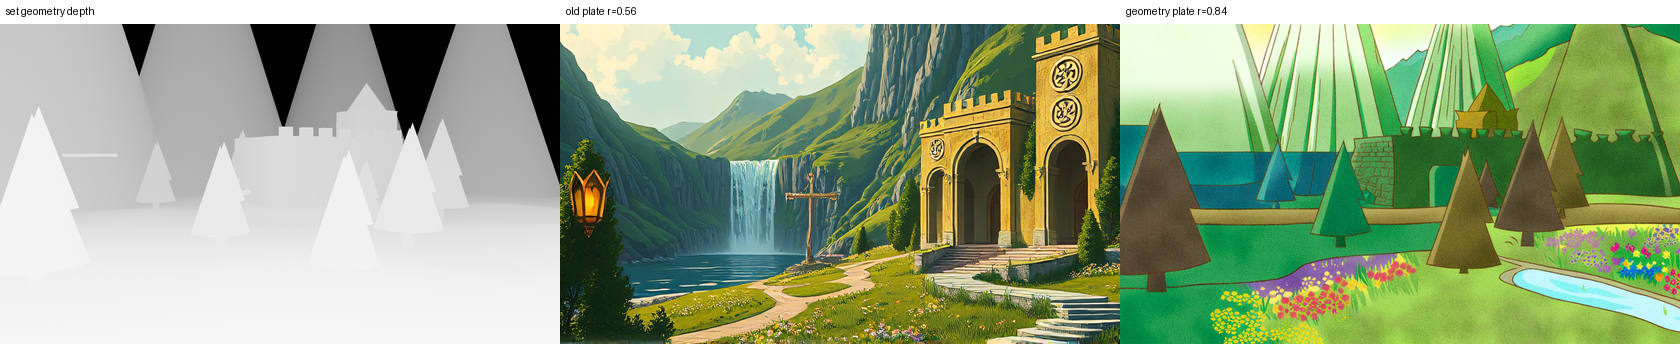
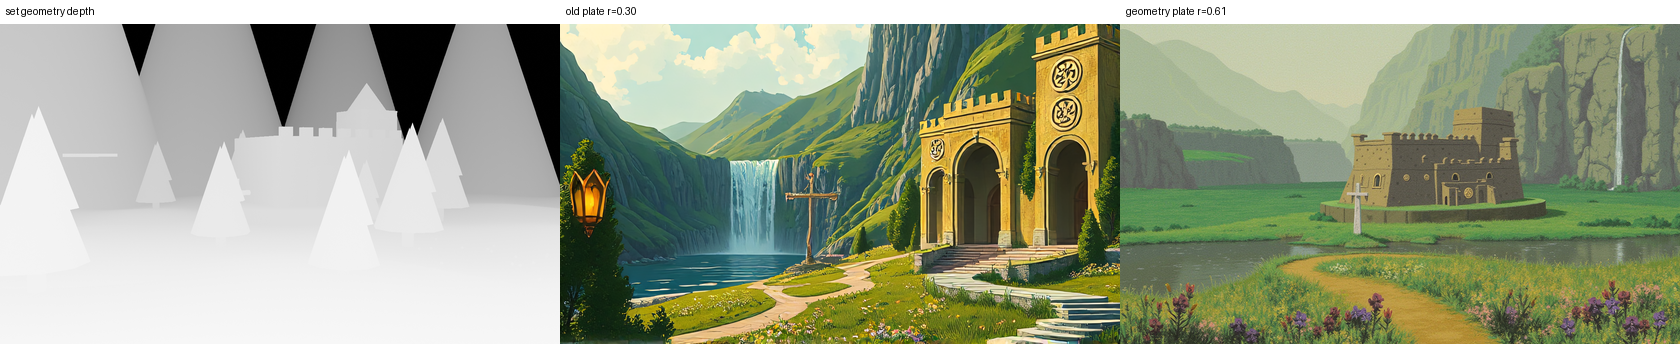
media export 20261005-1638

diff --git a/IMPROVE_STATUS.md b/IMPROVE_STATUS.md
@@ -1,15 +1,15 @@
 # Improvement status
 
-Updated 2026-10-05 16:27. Cycle 392.
+Updated 2026-10-05 16:37. Cycle 393.
 
 ## GPU duty cycle (last 24 h, 1-min samples)
 
-- card working (>=20%) **0%** of the last 24 h (10 busy minutes; 1414 minutes unsampled, counted idle); mean utilisation of sampled minutes 39%
+- card working (>=20%) **1%** of the last 24 h (15 busy minutes; 1404 minutes unsampled, counted idle); mean utilisation of sampled minutes 40%
 
 ## Adopted (what the masters are rendered with)
 
 - walk: RW_STRIDE=0.6, RW_DROP=0.062, RW_ARM_OUT=10 (defaults v1)
-- scene: SET_RELIEF_GAIN=0.8 (plate v3)
+- scene: SET_PLATE=/workspace/text-to-video/series/tir-na-nog-legend/sets/tir_na_nog/master_geo.png, SET_RELIEF_NPY=/workspace/loopwork/improve/plate_geo_depth.npy, SET_RELIEF_GAIN=0.8 (plate v4)
 - cast oisin: st_chibi3_oisin_m23845 (hand compactness 0.31, lower is better)
 - cast niamh: st_chibi3_niamh_m20705_tex (hand compactness 0.20, lower is better)
 - masters: nine_waterfalls_rigify_cast4d_web.mp4, nine_waterfalls_rigify_cast4_web.mp4, nine_waterfalls_loop_97c79e_web.mp4
@@ -46,7 +46,6 @@ Updated 2026-10-05 16:27. Cycle 392.
 
 ## Last 12 experiments
 
-- 2026-10-03 07:02 cast: oisin best new candidate st_chibi3_oisin_m22223 hands 0.35, adopted st_chibi3_oisin_m22223 (0.35) stands
 - 2026-10-03 07:02 cast: niamh best new candidate st_chibi3_niamh_m20705_tex hands 0.20, adopted st_chibi3_niamh_m20705_tex (0.20) stands
 - 2026-10-03 07:38 cast: oisin best new candidate st_chibi3_oisin_m22223 hands 0.35, adopted st_chibi3_oisin_m22223 (0.35) stands
 - 2026-10-03 07:38 cast: niamh best new candidate st_chibi3_niamh_m20705_tex hands 0.20, adopted st_chibi3_niamh_m20705_tex (0.20) stands
@@ -58,3 +57,4 @@ Updated 2026-10-05 16:27. Cycle 392.
 - 2026-10-03 10:37 scene_fit @389: gains 0.4,0.6,0.8 -> best gain 0.8 (on path 85%, foot float p95 0 mm) ADOPTED
 - 2026-10-05 16:18 plate_geo round 10: 9 plates (6 failed the style gate >=0.88), best agreement r=0.598 vs old plate r=0.561, adopted r=-1.000 stands
 - 2026-10-05 16:27 plate_geo round 11: 9 plates (2 failed the style gate >=0.85), best agreement r=0.601 vs old plate r=0.561, adopted r=-1.000 stands
+- 2026-10-05 16:37 plate_geo round 10: 9 plates, best r10_cn0.9_flux_d90.png agreement r=0.609 vs old plate r=0.297 -> ADOPTED as master_geo.png (plate v4)

diff --git a/IMPROVE_LEDGER.md b/IMPROVE_LEDGER.md
@@ -369,3 +369,4 @@ One line per experiment the GPU loop ran, newest last.
 - 2026-10-03 10:37 scene_fit @389: gains 0.4,0.6,0.8 -> best gain 0.8 (on path 85%, foot float p95 0 mm) ADOPTED
 - 2026-10-05 16:18 plate_geo round 10: 9 plates (6 failed the style gate >=0.88), best agreement r=0.598 vs old plate r=0.561, adopted r=-1.000 stands
 - 2026-10-05 16:27 plate_geo round 11: 9 plates (2 failed the style gate >=0.85), best agreement r=0.601 vs old plate r=0.561, adopted r=-1.000 stands
+- 2026-10-05 16:37 plate_geo round 10: 9 plates, best r10_cn0.9_flux_d90.png agreement r=0.609 vs old plate r=0.297 -> ADOPTED as master_geo.png (plate v4)
